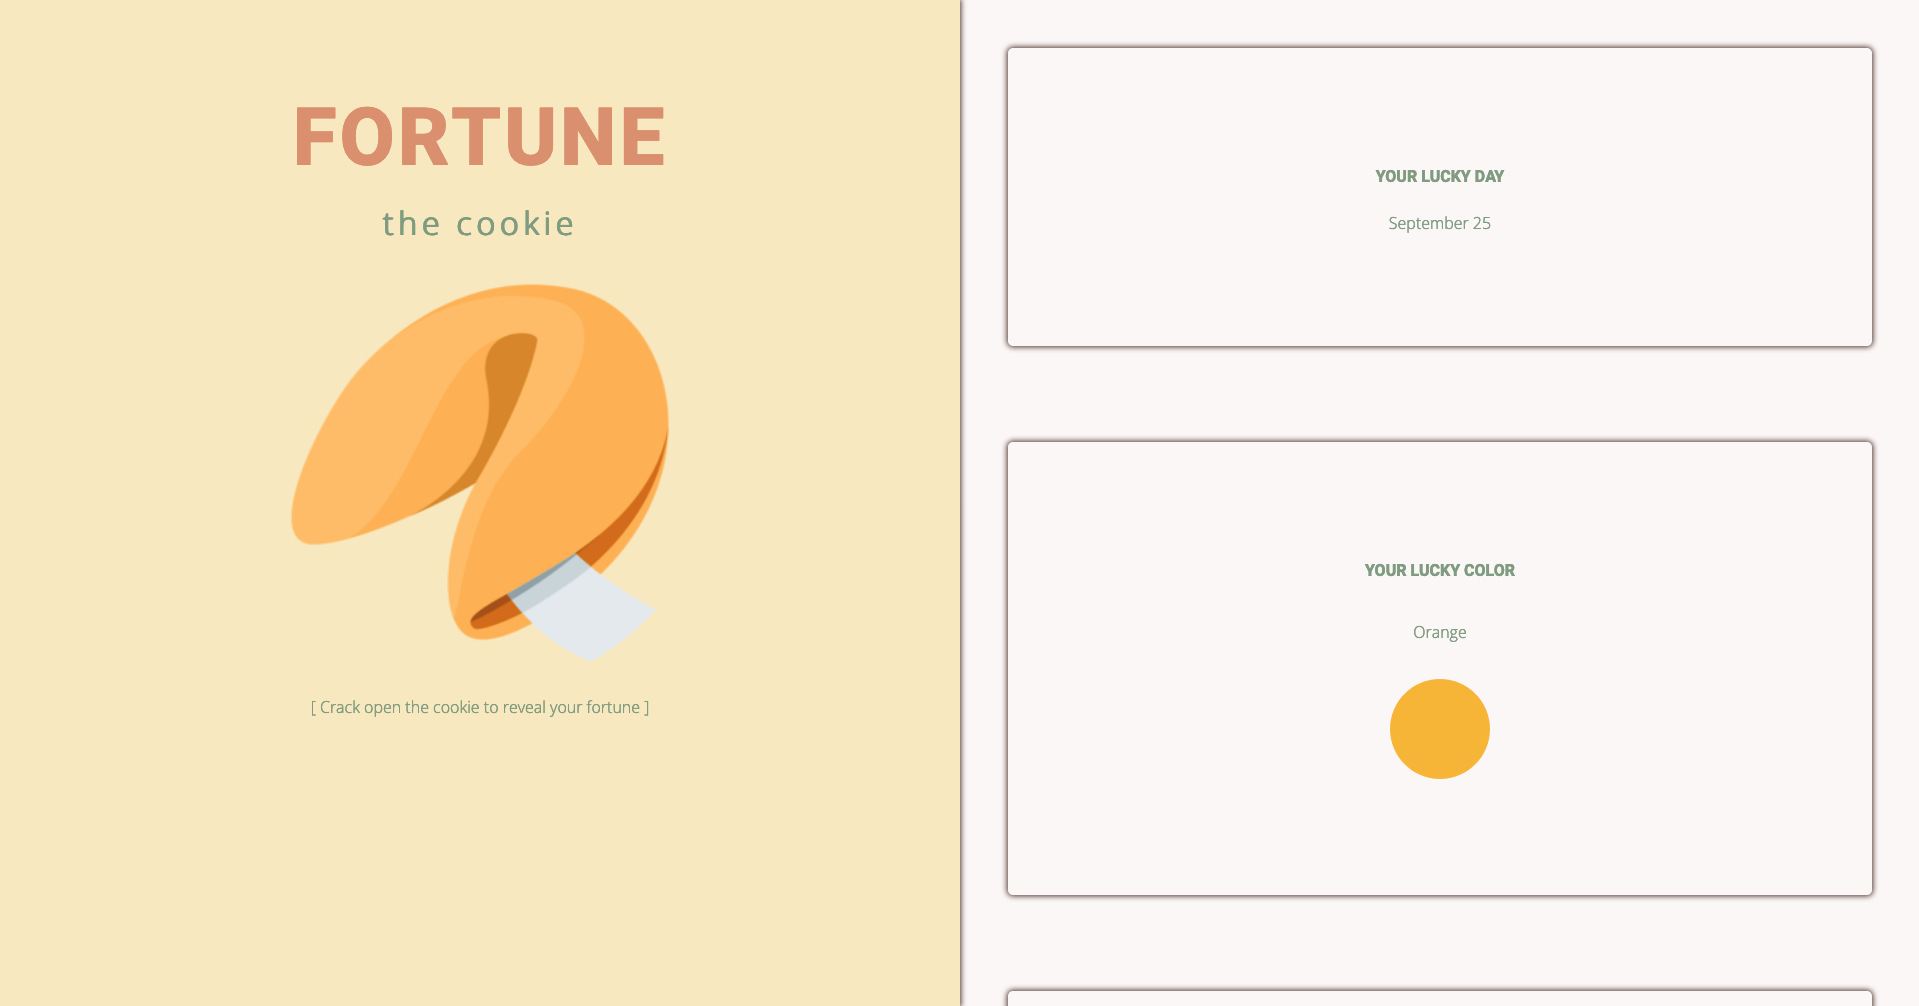
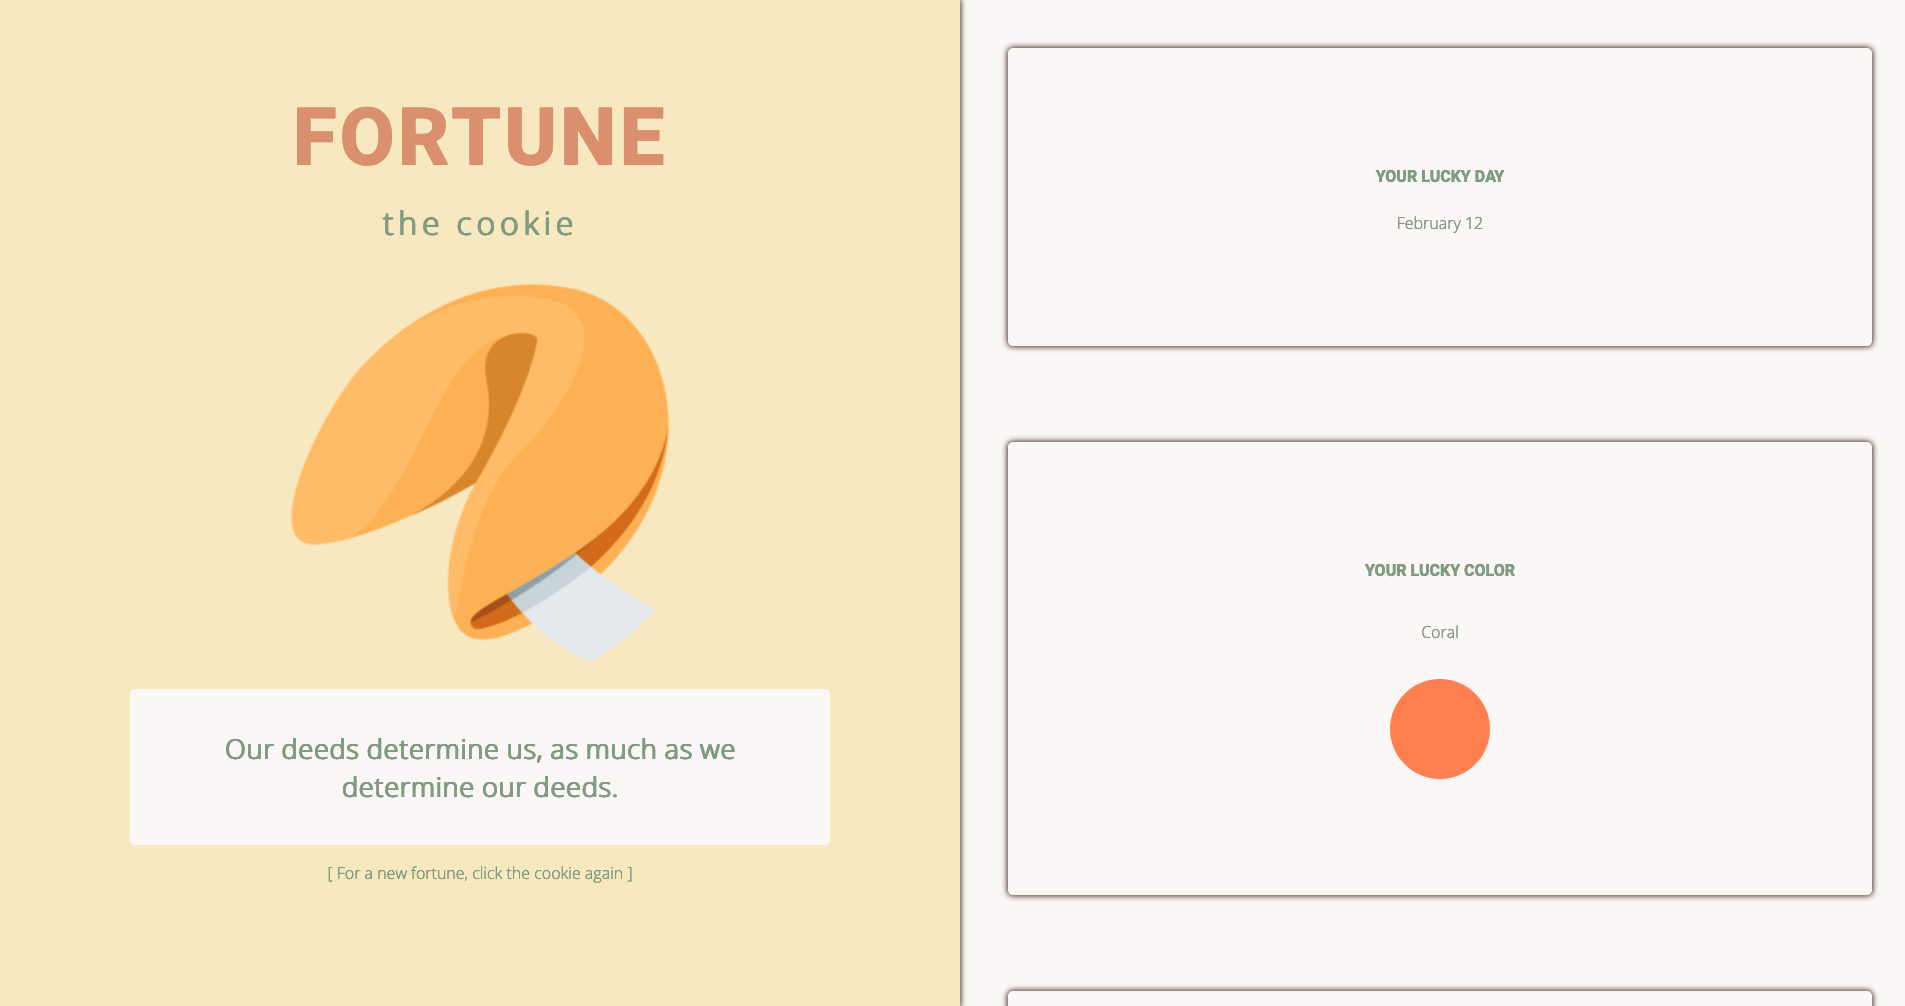
Replaced fortune cookie screenshot to include an open fortune

diff --git a/index.html b/index.html
@@ -171,7 +171,7 @@
 
         <div class="right-project-container">
             <div data-modal-target="#fortune-cookie-modal" id="fortune-cookie-block" class="timeline-project">
-                <img src="assets/img/fortune-cookie.png" style="object-position: -2% 33px; transform: scale(1.5)" alt="Screenshot of Fortune Cookie project">
+                <img src="assets/img/fortune-cookie.png" style="object-position: -2% 10px; transform: scale(1.1)" alt="Screenshot of Fortune Cookie project">
             </div>
             <div class="right-project-connector-line"></div>
         </div>

diff --git a/js/main.js b/js/main.js
@@ -49,7 +49,4 @@
         overlay.classList.remove('active');
     }
 
-// let leftTimelineCirclesHeight = $('.left-timeline-circle').css('height');
-// let leftTimelineCirclesHeight = $('.left-timeline-circle').css('height');
-
 })();
